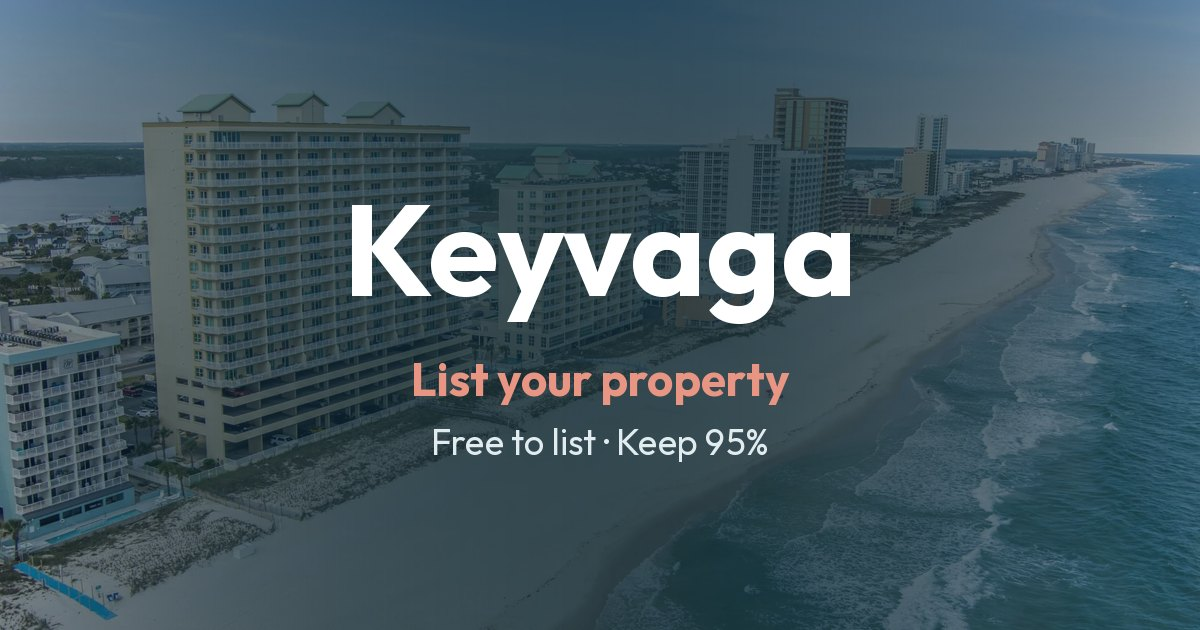
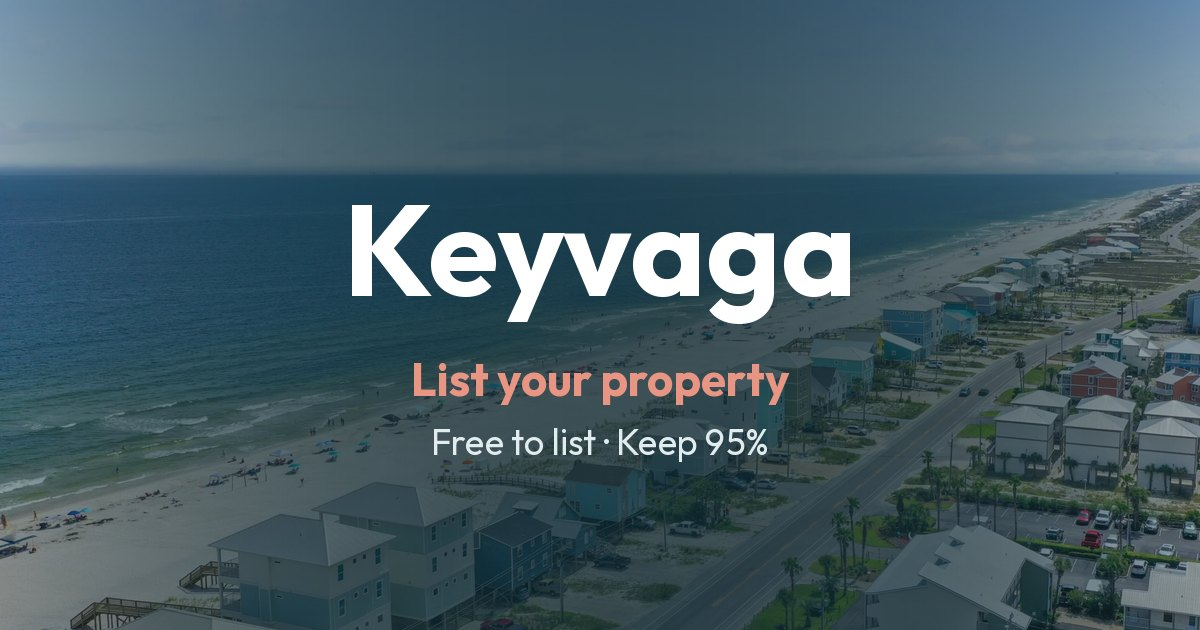
List your property: new Gulf beach aerial hero photo and share preview
Claude-Session: https://claude.ai/code/session_016DsAR9TW3VSM1Lh2YtwDfy

diff --git a/src/app/(site)/list-your-property/page.tsx b/src/app/(site)/list-your-property/page.tsx
@@ -28,7 +28,7 @@ export default function ListYourPropertyPage() {
     <div className="flex flex-col gap-10 pt-2 sm:pt-6">
       <section aria-labelledby="lyp-title" className="relative isolate -mx-4 overflow-hidden sm:mx-0 sm:rounded-[28px]">
         {/* eslint-disable-next-line @next/next/no-img-element */}
-        <img src="/hero/condos.webp" alt="" className="absolute inset-0 -z-10 h-full w-full object-cover object-[60%_center]" fetchPriority="high" />
+        <img src="/hero/gulf-beach-aerial.webp" alt="" className="absolute inset-0 -z-10 h-full w-full object-cover object-[45%_center]" fetchPriority="high" />
         <div aria-hidden="true" className="absolute inset-0 -z-10 bg-gradient-to-r from-[#0f2a35]/85 via-[#0f2a35]/55 to-[#0f2a35]/10" />
         <div className="flex min-h-[460px] max-w-2xl flex-col justify-center gap-5 px-6 py-12 text-white sm:min-h-[520px] sm:px-12">
           <h1 id="lyp-title" className="font-brand text-4xl font-bold leading-[1.05] tracking-tight drop-shadow-sm sm:text-5xl">List your property on Keyvaga</h1>
